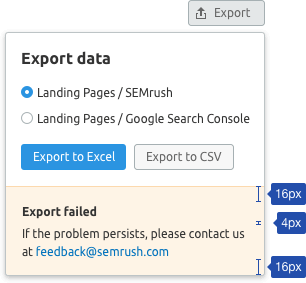
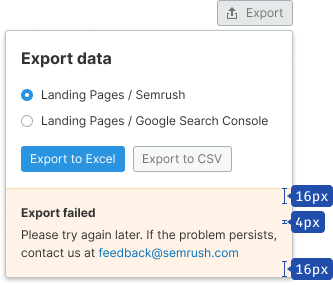
[Export pattern] Update illustrations &  info about error message

diff --git a/website/docs/patterns/export/export.md b/website/docs/patterns/export/export.md
@@ -105,6 +105,8 @@ Or lead to the page with the custom_report form, if possible, the text is as fol
 
 ### Error
 
+For error messages use following message: "Please try again later. If the problem persists, contact us at {email}".
+
 ![export error](static/export-error-1.png)
 
 ![export error](static/export-error-2.png)
